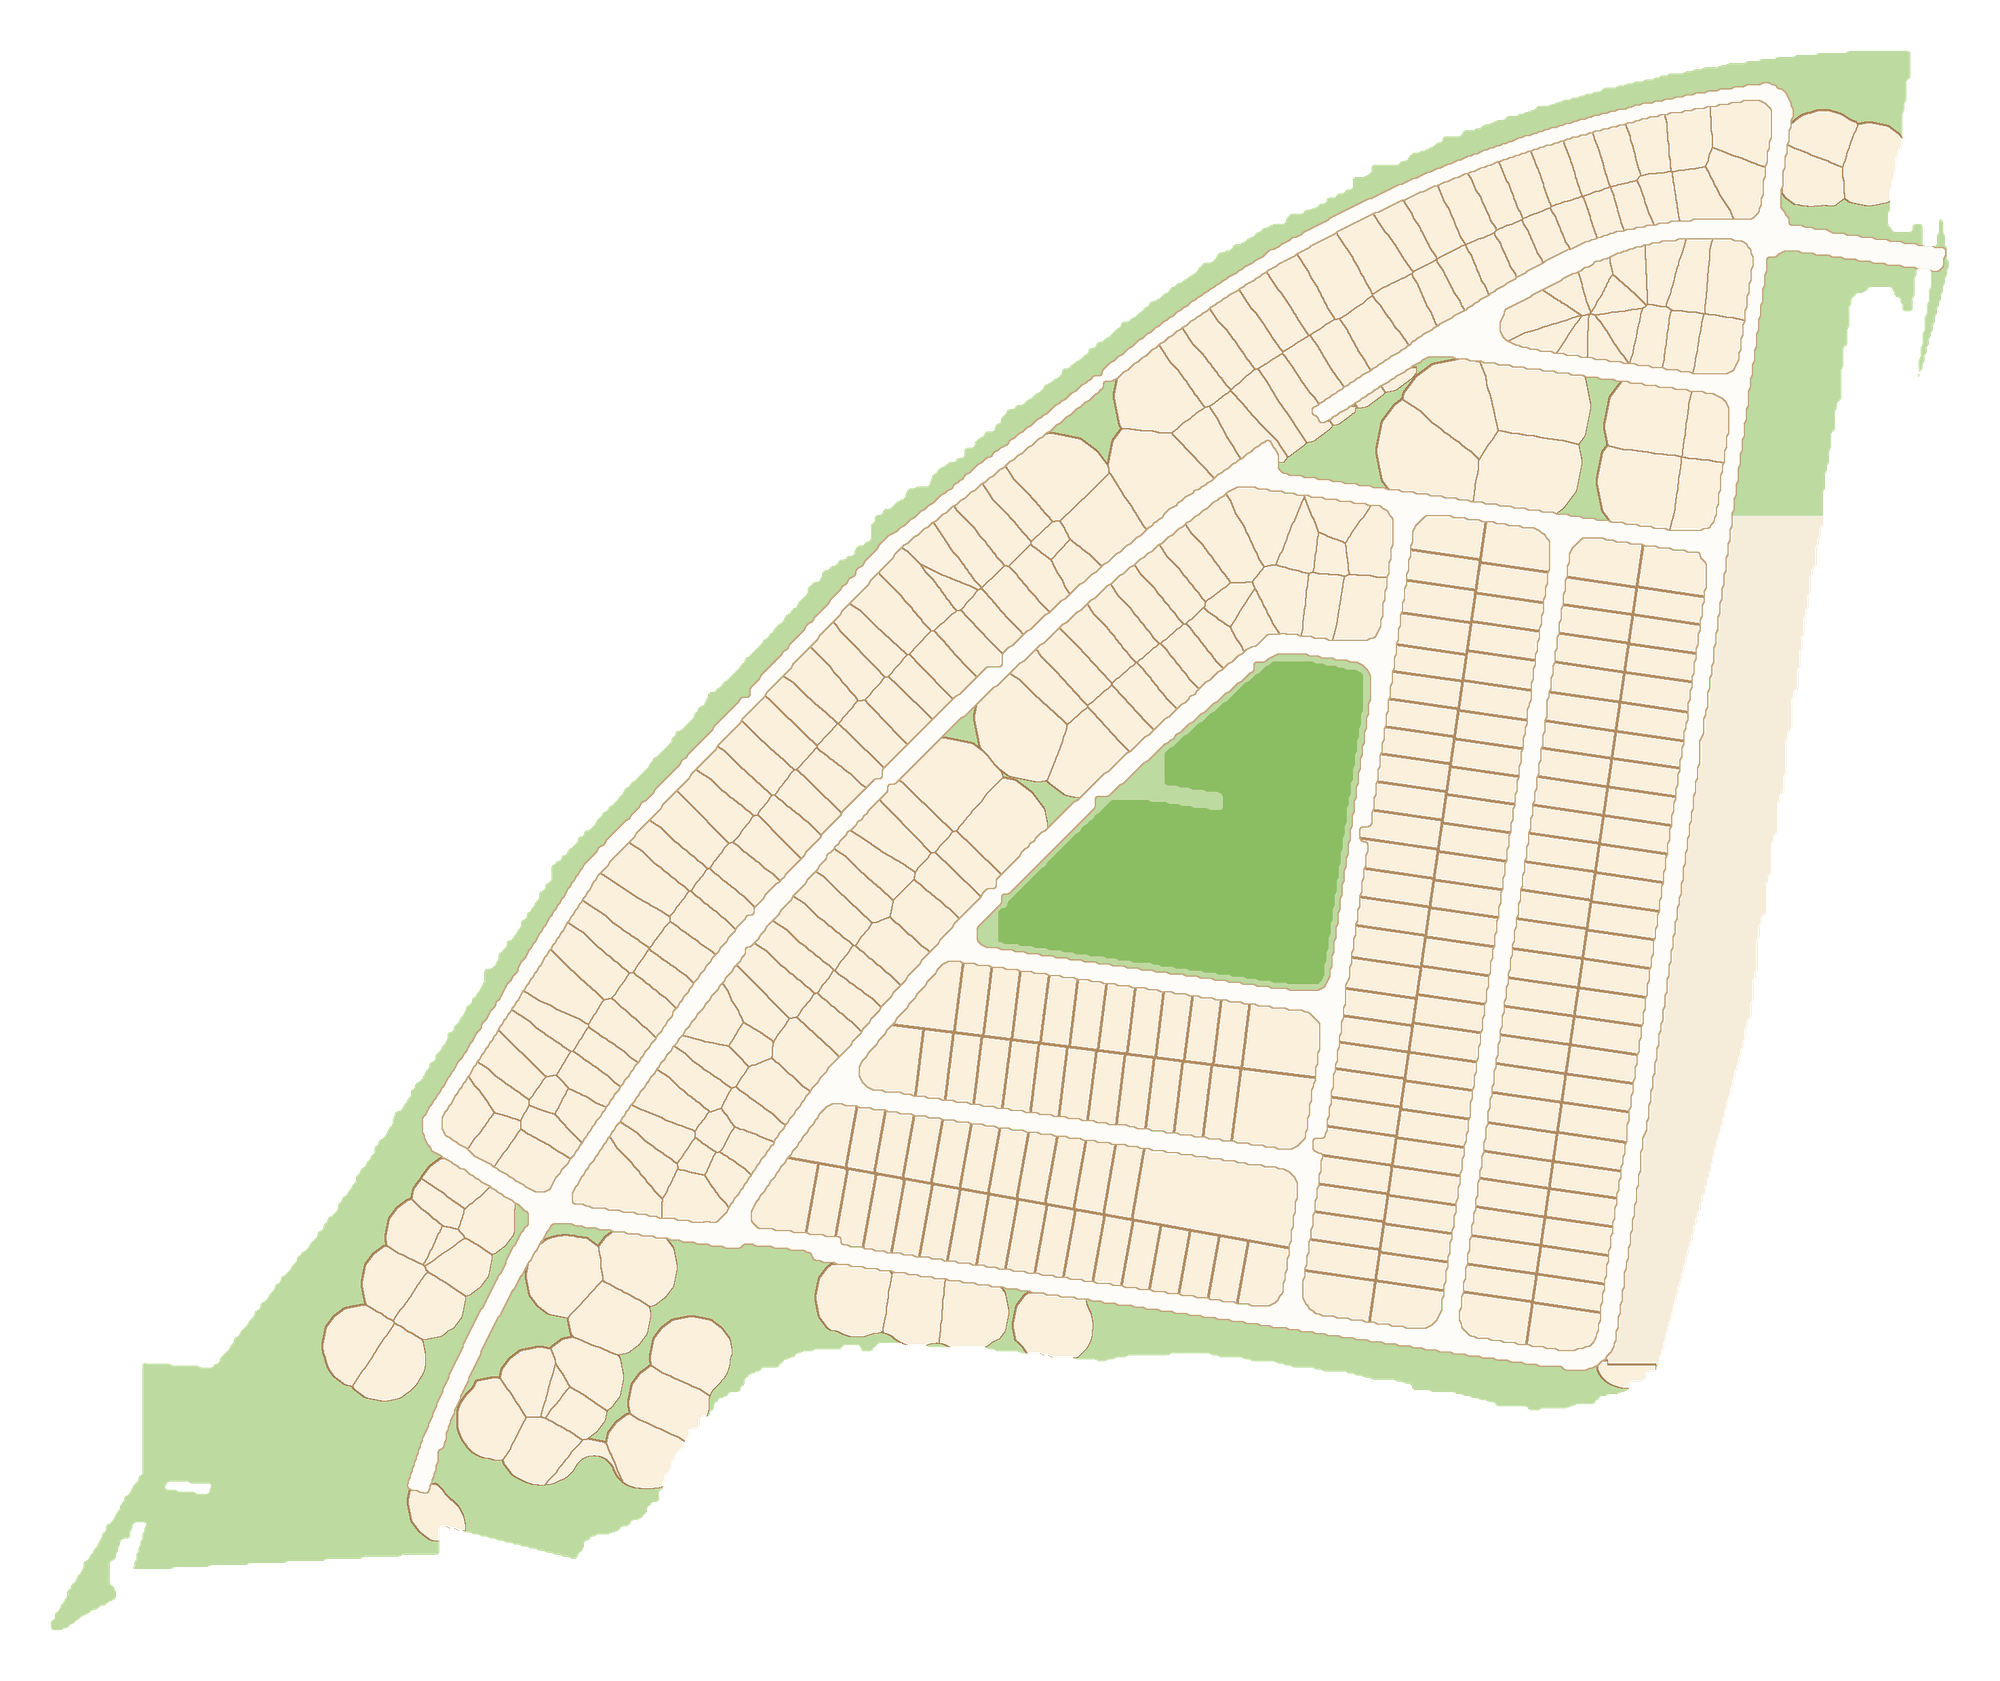
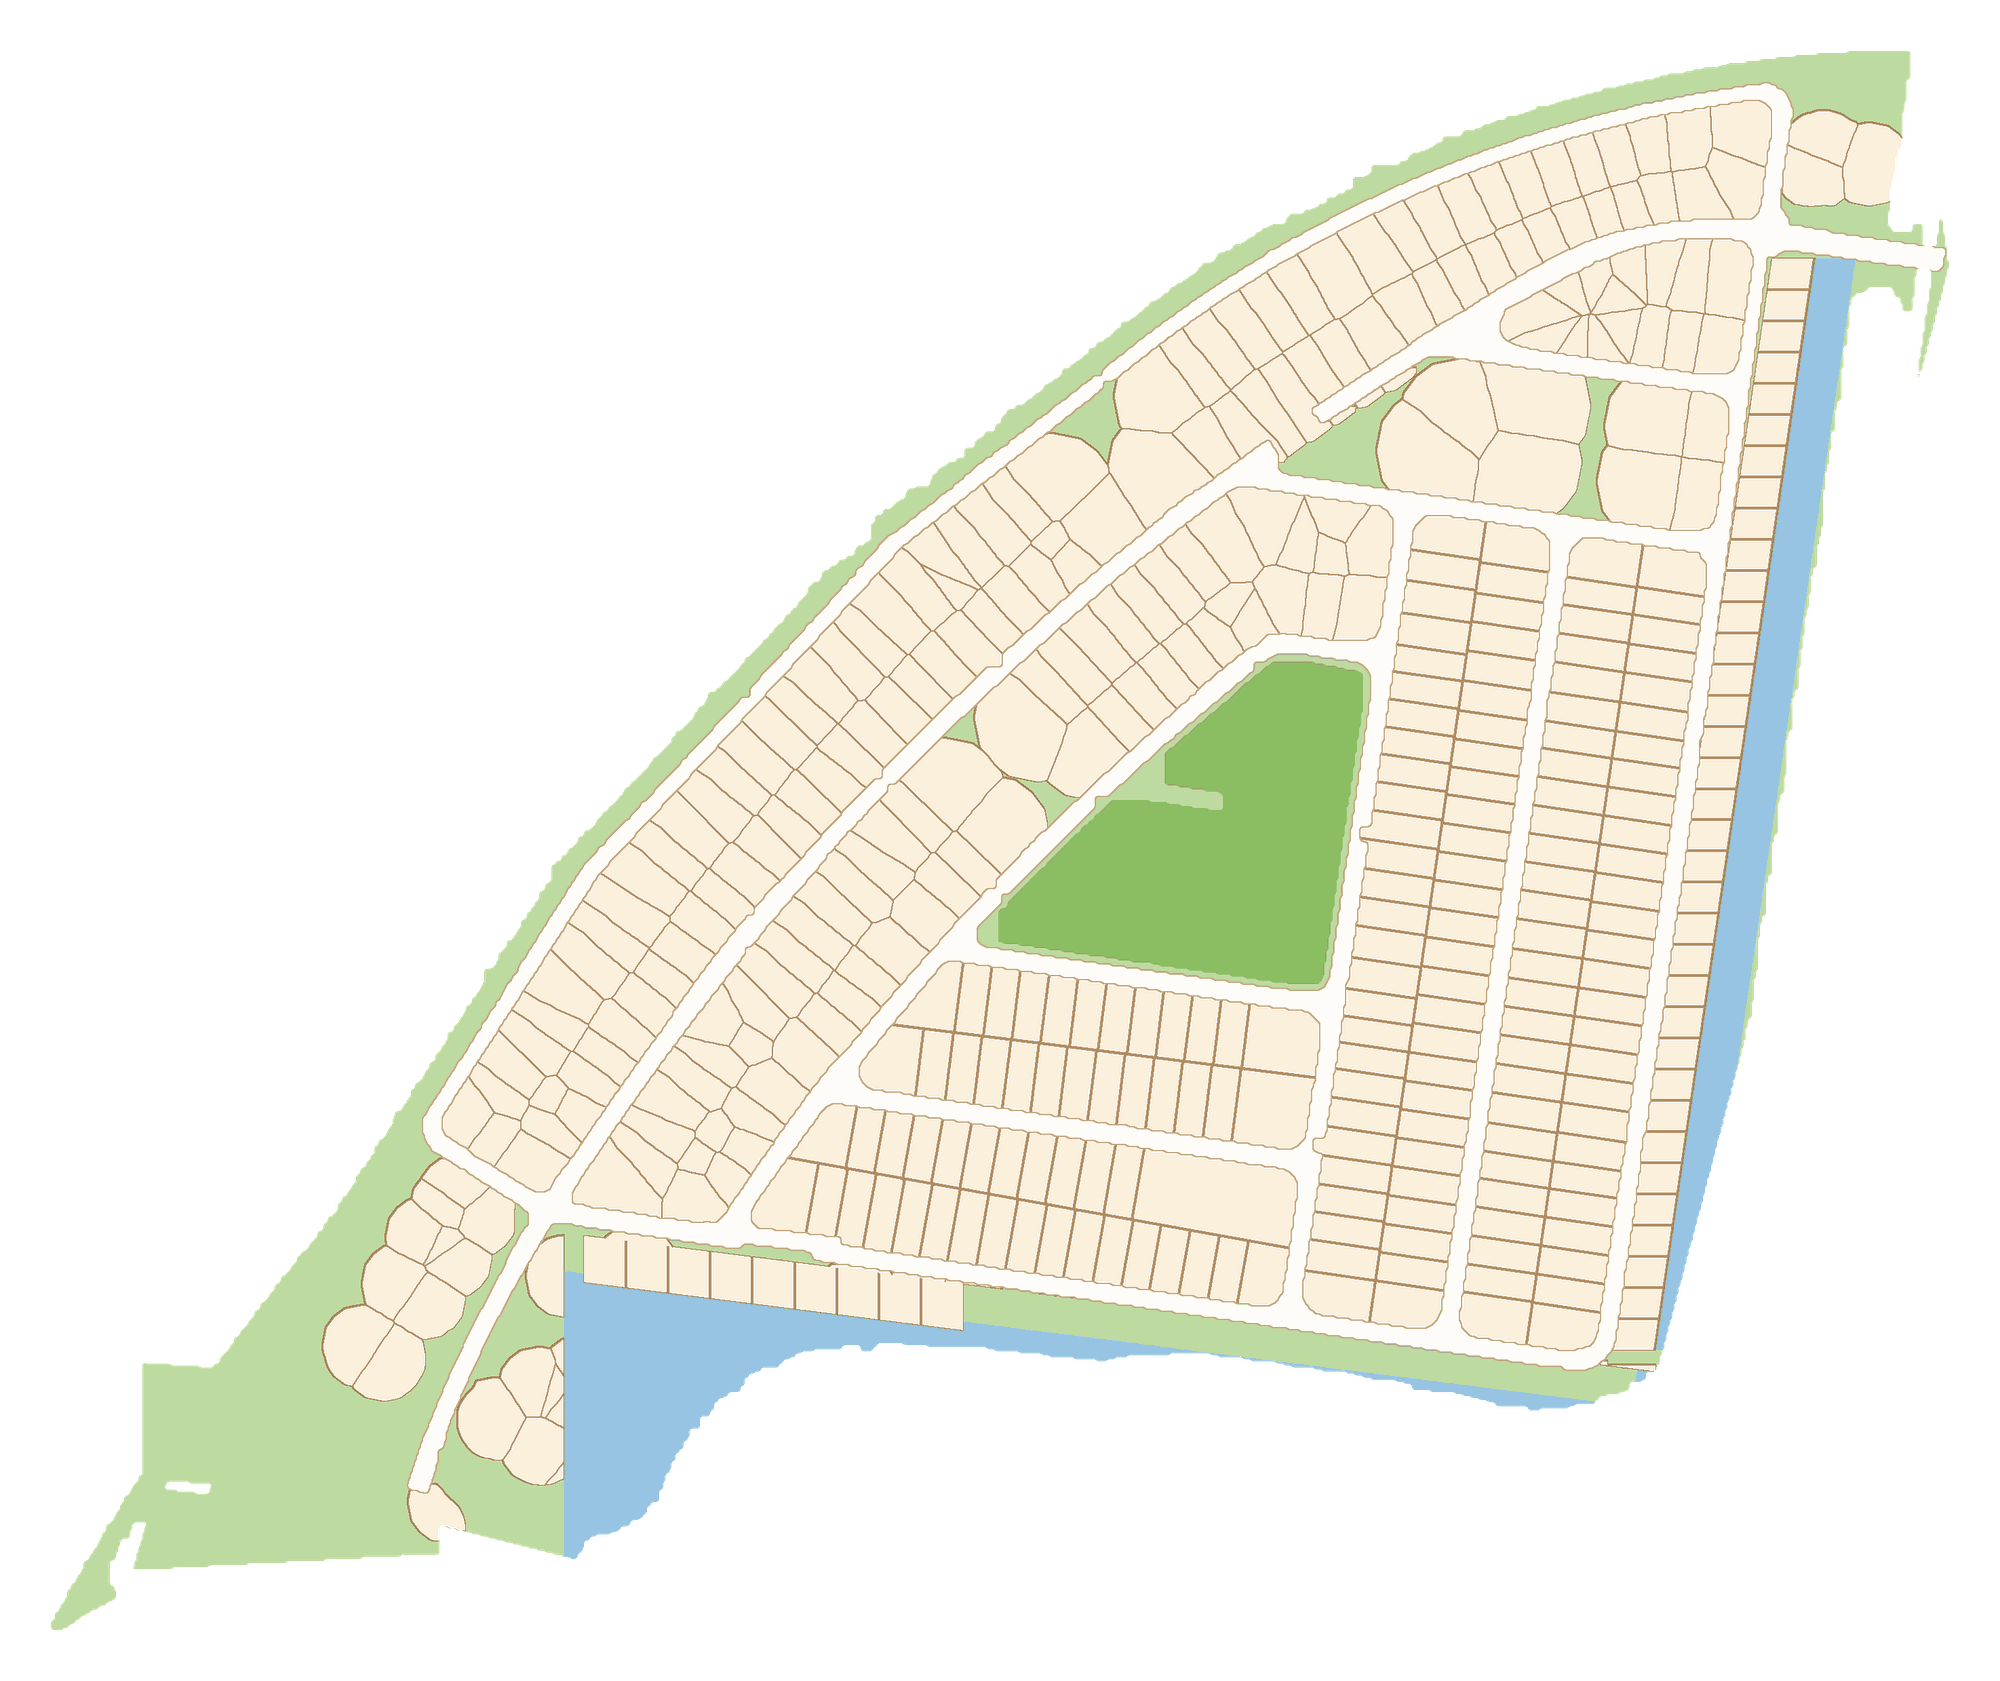
Euro Village 2: B2-17 35 lô, kênh, hồ phía nam theo bản CAD (2.20.275)
Claude-Session: https://claude.ai/code/session_011HGb6VAzLiwbq5KWLxGuh9

Changed region(s): [[0.682, 0.1547, 0.93, 0.8352], [0.279, 0.7115, 0.589, 0.928]]

diff --git a/wordpress/packaging/hoang-hiep-crm.php b/wordpress/packaging/hoang-hiep-crm.php
@@ -2,7 +2,7 @@
 /**
  * Plugin Name: Hoàng Hiệp CRM
  * Description: Dự án, nhà đất mua bán / cho thuê, khách hàng tiềm năng và dữ liệu dự án Đà Nẵng cho hiephoangmt.com. Dùng kèm giao diện Hoàng Hiệp.
- * Version: 2.20.274
+ * Version: 2.20.275
  * Author: Hoàng Hiệp
  * Requires PHP: 7.4
  */
@@ -14,7 +14,7 @@ if ( defined( 'HH_CRM_VERSION' ) ) {
 	return;
 }
 
-define( 'HH_CRM_VERSION', '2.20.274' );
+define( 'HH_CRM_VERSION', '2.20.275' );
 define( 'HH_CRM_DIR', __DIR__ . '/hh-crm/' );
 define( 'HH_CRM_URL', plugin_dir_url( __FILE__ ) . 'hh-crm/' );
 

diff --git a/wordpress/wp-content/mu-plugins/hh-crm.php b/wordpress/wp-content/mu-plugins/hh-crm.php
@@ -2,7 +2,7 @@
 /**
  * Plugin Name: Hoàng Hiệp CRM
  * Description: Dự án, nhà đất mua bán / cho thuê và khách hàng tiềm năng cho hiephoangmt.com.
- * Version: 2.20.274
+ * Version: 2.20.275
  * Author: Hoàng Hiệp
  */
 
@@ -13,7 +13,7 @@ if ( defined( 'HH_CRM_VERSION' ) ) {
 	return;
 }
 
-define( 'HH_CRM_VERSION', '2.20.274' );
+define( 'HH_CRM_VERSION', '2.20.275' );
 define( 'HH_CRM_DIR', __DIR__ . '/hh-crm/' );
 define( 'HH_CRM_URL', WPMU_PLUGIN_URL . '/hh-crm/' );
 

diff --git a/wordpress/wp-content/mu-plugins/hh-crm/mat-bang-ban-do.php b/wordpress/wp-content/mu-plugins/hh-crm/mat-bang-ban-do.php
@@ -38,7 +38,7 @@ function hh_mbbd_plans() {
 				$l( 'B2-9', '9 lô · 5.101 m²', 828, 1986 ),
 				$l( 'B2-21', '10 lô · 3.250 m²', 2329, 465 ),
 				$l( 'B2-18', '13 lô · 4.456 m²', 2341, 652 ),
-				$l( 'B2-17', '', 2476, 1494 ),
+				$l( 'B2-17', '35 lô · 10.770 m²', 2476, 1494 ),
 				$l( 'Công viên', '', 1750, 1149 ),
 				$l( 'Trường mẫu giáo', '', 2058, 694 ),
 			),

diff --git a/wordpress/GHI-CHU-CAP-NHAT.md b/wordpress/GHI-CHU-CAP-NHAT.md
@@ -1,6 +1,6 @@
 # Gói cập nhật hiephoangmt.com – 12/10/2026
 
-**File cài:** `hoang-hiep-tron-goi.zip` (giao diện Hoàng Hiệp **2.16.31** + plugin Hoàng Hiệp CRM **2.20.274**) · cập nhật nhanh bằng điện thoại: `cap-nhat-nhanh.zip`
+**File cài:** `hoang-hiep-tron-goi.zip` (giao diện Hoàng Hiệp **2.16.31** + plugin Hoàng Hiệp CRM **2.20.275**) · cập nhật nhanh bằng điện thoại: `cap-nhat-nhanh.zip`
 **Xem trước:** https://claude.ai/artifact/ACKuFhbbb8yj5VoU8Ty9X7 (riêng tư – bấm Chia sẻ nếu muốn gửi người khác)
 
 ## Cài đặt từng bước (khoảng 10 phút)
@@ -40,6 +40,10 @@ Hình minh hoạ từng bước: thư mục `huong-dan/` (cai-1 … cai-4, inter
 Kẹt ở bước nào: chụp màn hình gửi lại.
 
 Ô / bài anh đã tự sửa trong quản trị **không bị ghi đè** khi nhập dữ liệu.
+
+## Có gì mới – 2.20.275 (14/11/2026)
+
+- **Euro Village 2 – sửa sơ đồ theo bản CAD anh gửi:** B2-17 chia 35 lô (10.770 m²) dọc Đường số 4, lưng tựa kênh; thêm kênh phía Đông nối xuống hồ; phía Nam Đường số 9 là dải cây xanh + hồ, B2-12-1 là dãy 9 lô sát đường.
 
 ## Có gì mới – 2.20.274 (14/11/2026)
 
